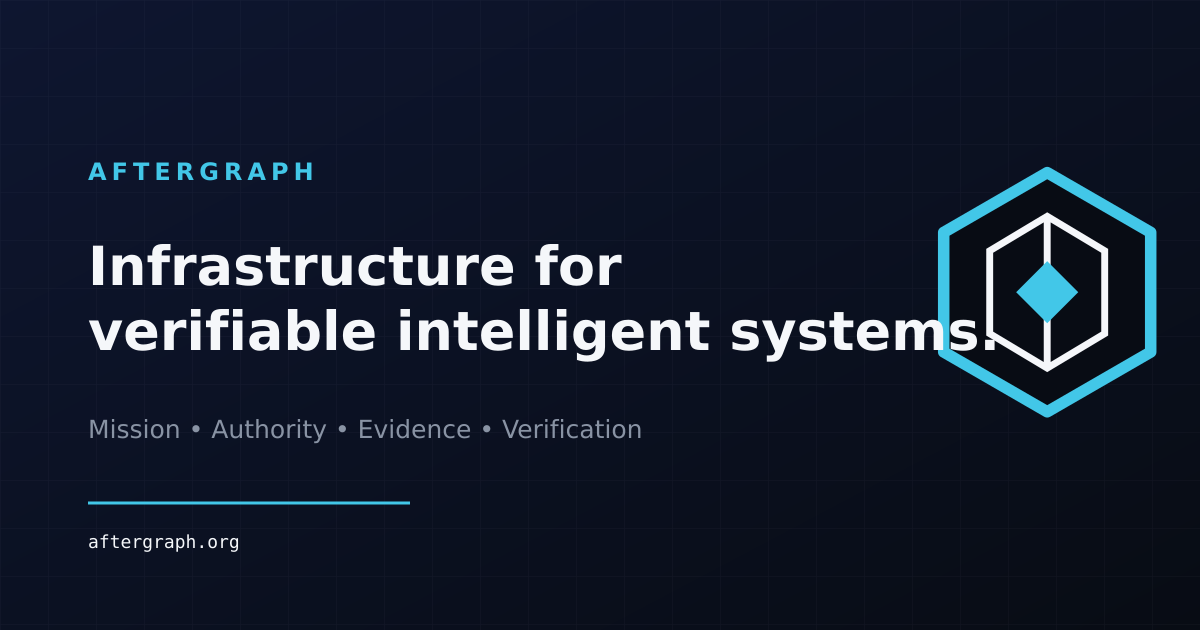
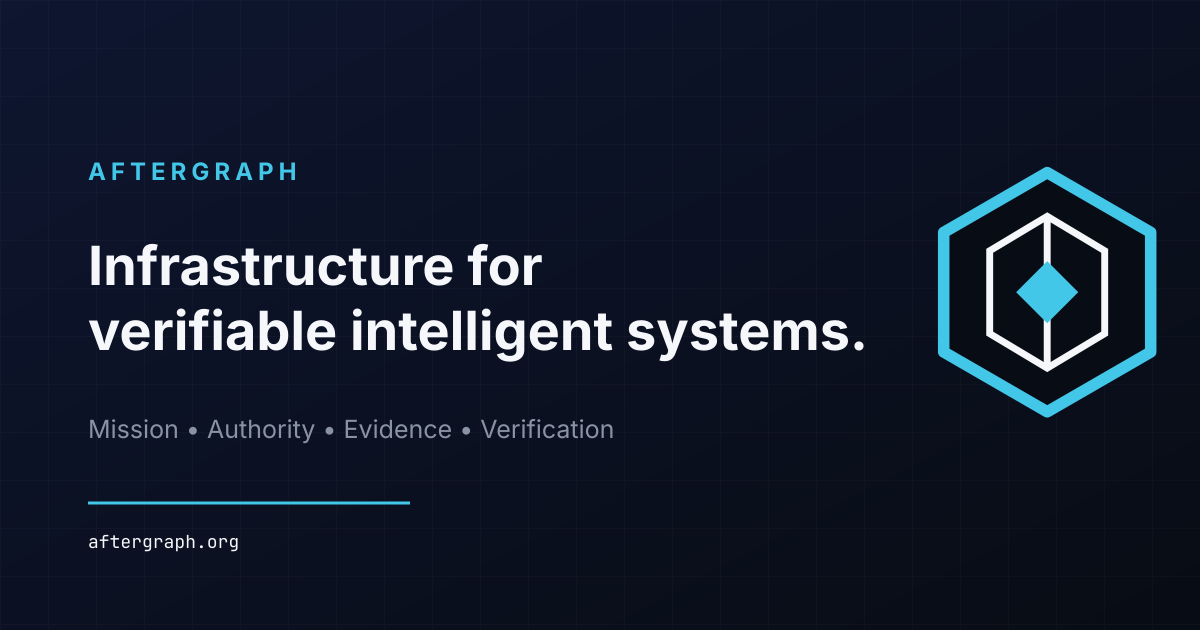
fix(brand): resolve social text-mark collisions found in wave-1 visual QA
- linkedin-cover: headline overlapped hexagon in Inter metrics;
  reduce to 32px and shift mark +60px (clearance ~111px)
- og-aftergraph.png: regenerate raster with brand fonts installed;
  prior bytes were baked with fallback metrics (line 2 collision)
- export-assets: document Inter/JetBrains Mono font prerequisite

diff --git a/IMPLEMENTATION-HANDOFF.md b/IMPLEMENTATION-HANDOFF.md
@@ -33,6 +33,24 @@ npm test           -> PASS; 3/3
 git diff --check   -> PASS
 ```
 
+## Wave 1 hardening (visual QA, headless Chromium + Inter/JetBrains Mono)
+
+- Rendered monogram/wordmark/lockup at 16/32/64/256 px: PASS, no defects.
+- Export binaries: all PNG dimensions match filenames; OG 1200x630; ICO valid.
+- FIXED `social/linkedin-cover.svg`: headline overlapped the hexagon even in
+  Inter metrics (text ended x=766.8 vs mark edge x=739.5). Reduced headline to
+  32 px and shifted the mark +60 px; re-measured clearance ~111 px.
+- FIXED `exports/social/og-aftergraph.png`: committed raster was baked with
+  fallback fonts so line 2 collided with the mark. Regenerated with sharp
+  after installing Inter/JetBrains Mono; re-screenshotted clean.
+- `social/youtube-banner.svg` text-over-mark is an intentional backing-panel
+  design, not a defect. `svg/aftergraph-social-banner.svg` headline only
+  crosses faint decorative orbit geometry; left as designed.
+- Added font prerequisite comment to `scripts/export-assets.mjs`: raster text
+  requires brand fonts present via fontconfig or fallback metrics reflow text.
+- Evidence: /tmp/brand-visual/review.png, review2.png, review3.png,
+  og-after.png, linkedin-after.png (local QA only, not committed).
+
 ## Authoritative observations for continuation
 
 - Organization inventory: 25 repositories.
